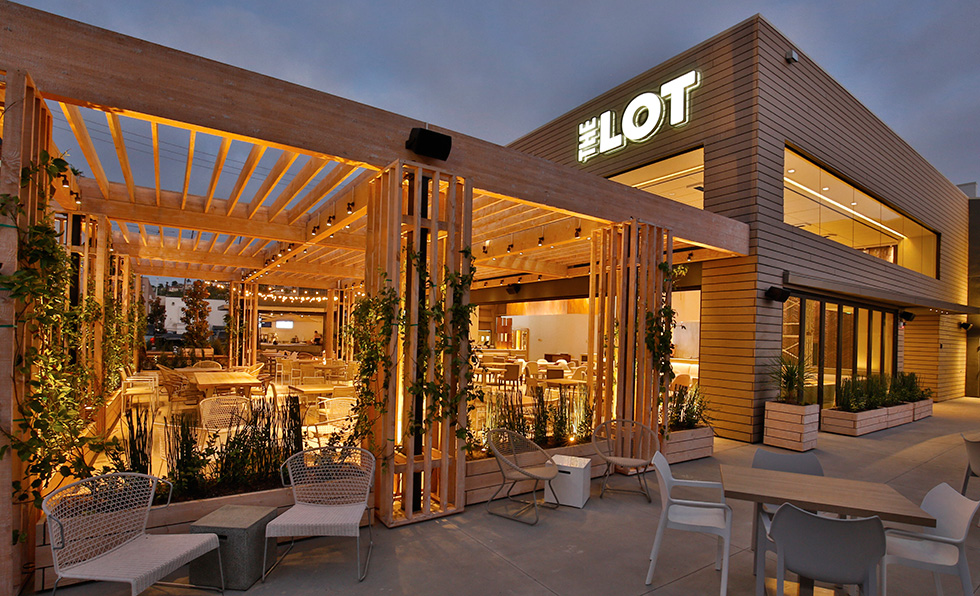
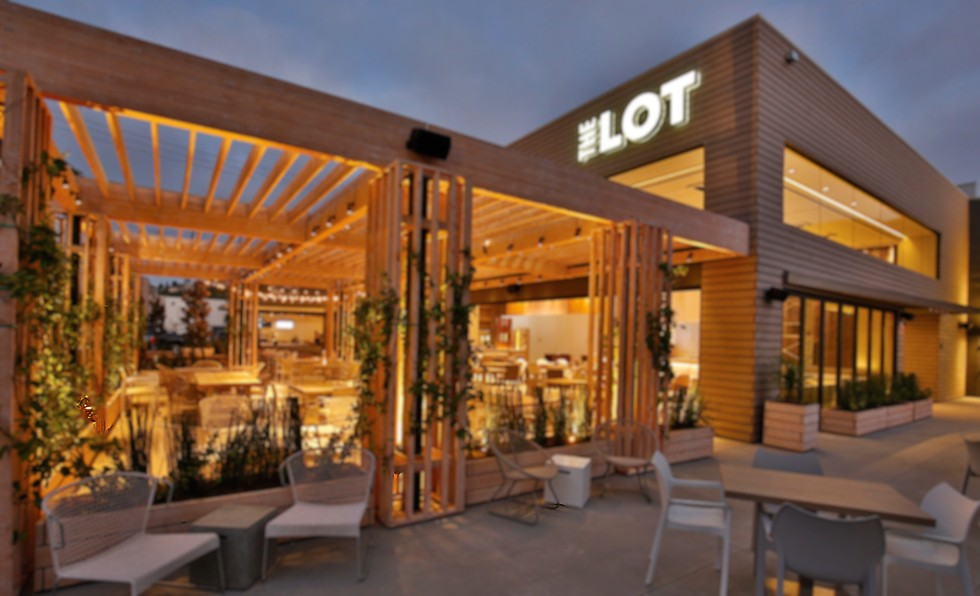
Kala Xristougenna

diff --git a/demo/src/main/resources/static/css/aboutUsStyle.css b/demo/src/main/resources/static/css/aboutUsStyle.css
@@ -7,6 +7,7 @@ body, html {
     height:100vh;
     display:flex;
     margin:0; 
+    position: relative;
 }
 #sidebar {
     background-color: rgb(0, 0, 0);
@@ -68,40 +69,45 @@ body, html {
     background-color:hsl(51, 70%, 83%);
 }
 .content{
-    border:5px solid hsl(51, 70%, 67%);
-    flex:1;
+    border:10px solid hsl(51, 70%, 67%);
     background-color: blanchedalmond;
 }
 .background{
-    border: 10px solid #000000;
-    flex: 1;
-    position: absolute;
-    height: 70%;
+    border: 2px solid#fcb229;
+    position: relative;
+    height:99vh;
     width: 100%;
-    background-size: cover;
-    display: grid;
-    place-items: start center;
+    background-repeat: no-repeat;
+    background-size:cover; 
+    display: flex;
     background-image: url(../images/aboutUs.jpg);
-    filter: blur(2px);
-    z-index: -1;
 }
 .hello h1 {
     position: relative;
-    color:black;
+    color:(0,0,0);
     border-radius: 10px;
     display: flex;
-    justify-content: center;
-    align-items: center;
+    left: 160%;
     text-shadow: 2px 2px 4px rgba(0, 0, 0, 0.5);
-    background: linear-gradient(to right, hsl(51, 70%, 67%), #fcb229); 
     border: 5px inset black;
-    width:250px;
+    background: linear-gradient(to right, hsl(51, 70%, 67%), #fcb229);
+    width:300px;
+    height: 60px;
+    justify-content: center;
+    font-family:'Courier New', Courier, monospace;
+    padding-top: 2px;
+    padding: 8px;
+    word-spacing: 5px;
 }
 
 .description p{
-    color: rgb(36, 26, 26);
+    color:rgb(255, 255, 255);
+    text-align: center;
     position: relative;
-    text-align: center;
-    text-align: center;
-    top: 510px;
+    top: 40%;
+    right: 11%;
+    font-style: italic;
+    font-size: 20px;
+    background-color: rgba(0, 0, 0, 0.271);
+    border-radius: 10px;
 }

diff --git a/demo/src/main/resources/templates/aboutUs.html b/demo/src/main/resources/templates/aboutUs.html
@@ -15,7 +15,7 @@
                 <button id="login">Login</button>
             </div>
         </div>
-        <div class = "background"></div>
+        <div class = "background">
             <div class = "hello">
                 <h1>Our Restaurant</h1>
             </div>
@@ -27,9 +27,15 @@
                    Με φρέσκα υλικά, δημιουργικές συνταγές και ζεστό
                    περιβάλλον, σας καλούμε να απολαύσετε μια μοναδική
                    εμπειρία γεύσης. Είμαστε εδώ για να κάνουμε κάθε σας
-                   στιγμή ξεχωριστή!
+                   στιγμή ξεχωριστή!ίμαστε εδώ για να κάνουμε κάθε σας στιγμή ξεχωριστή.
+                   Στόχος μας είναι να δημιουργήσουμε αναμνήσεις, όχι μόνο γεύσεις.
+                   Είτε γιορτάζετε μια σημαντική περίσταση είτε απλά θέλετε να απολαύσετε ένα ήρεμο γεύμα με φίλους και οικογένεια,
+                   η εμπειρία στο εστιατόριό μας είναι φτιαγμένη για να σας εντυπωσιάσει.
+                   Για εμάς, κάθε γεύμα είναι μια ευκαιρία να δημιουργήσουμε στιγμές χαράς,
+                   γεμάτες γεύσεις και ατμόσφαιρα.
                 </p>
             </div>
+        </div> 
     </div>
 </body>
 </html>
